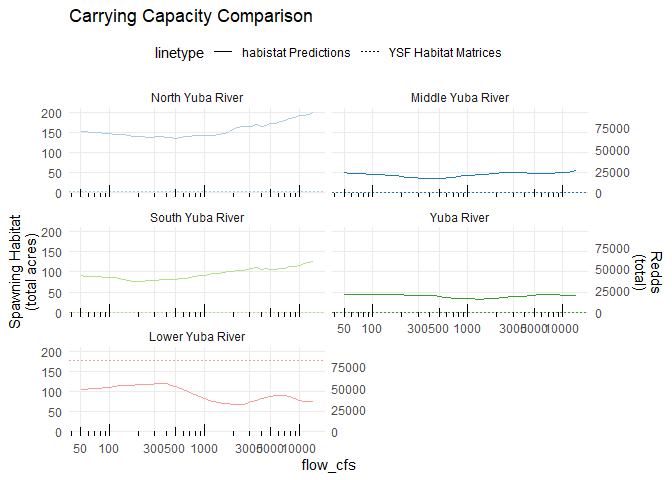
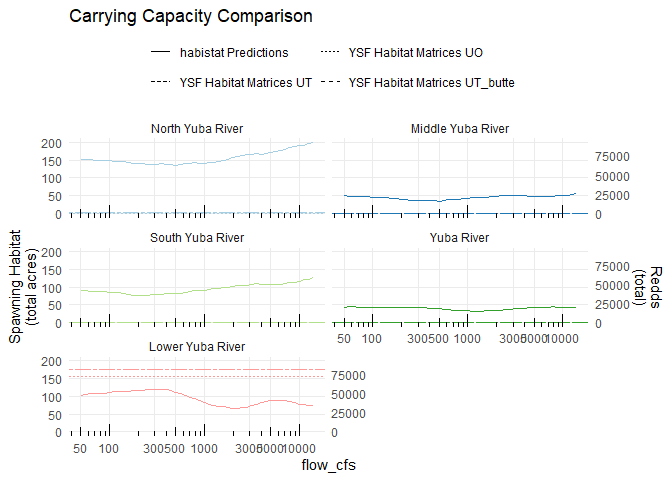
add UO vs UT breakdown

diff --git a/data-raw/scripts/spawning-gravel-carrying-capacity.md b/data-raw/scripts/spawning-gravel-carrying-capacity.md
@@ -116,27 +116,40 @@ spawning_matrix_data <- read_csv(here::here("data-raw", "source", "spawning_data
 Summarize
 
 ``` r
-spawning_matrix_summary <- 
+spawning_matrix_summary <-
   spawning_matrix_data |>
   group_by(river_name, year) |>
   summarize(across(c(starts_with("length_"), starts_with("gravel_"), starts_with("redds_")), function(x) sum(x, na.rm=T)), .groups="drop") |>
-  select(river_name, year, ends_with("_UT")) |>
   group_by(river_name) |>
   summarize(across(c(starts_with("length_"), starts_with("gravel_"), starts_with("redds_")), mean)) |>
-  transmute(river_name = river_name |>
-            factor(levels = c("North Yuba River", "Middle Yuba River", "South Yuba River", "Yuba River", "Lower Yuba River")),
-            actual_length_mi = length_UT, # units are miles
-            actual_gravel_ac = gravel_UT * 1000 / 43560) # convert 1000 ft2 to ft2 to acres) |>
+  pivot_longer(cols = -river_name) |>
+  separate(name, sep = "_", into = c("name", "method"), extra = "merge") |>
+  pivot_wider() |>
+  transmute(river_name = river_name |> factor(levels = c("North Yuba River", "Middle Yuba River", "South Yuba River", "Yuba River", "Lower Yuba River")),
+            method,
+            actual_length_mi = length, # units are miles
+            actual_gravel_ac = gravel * 1000 / 43560)
+
 spawning_matrix_summary |> knitr::kable()
 ```
 
-| river_name        | actual_length_mi | actual_gravel_ac |
-|:------------------|-----------------:|-----------------:|
-| Lower Yuba River  |            24.00 |      175.7174013 |
-| Middle Yuba River |             9.20 |        0.5968779 |
-| North Yuba River  |            20.55 |        3.1393480 |
-| South Yuba River  |             0.75 |        0.0229568 |
-| Yuba River        |             1.70 |        0.1377410 |
+| river_name        | method   | actual_length_mi | actual_gravel_ac |
+|:------------------|:---------|-----------------:|-----------------:|
+| Lower Yuba River  | UO       |           18.125 |      154.4765840 |
+| Lower Yuba River  | UT       |           24.000 |      175.7174013 |
+| Lower Yuba River  | UT_butte |           24.000 |      175.7174013 |
+| Middle Yuba River | UO       |            4.325 |        0.1377410 |
+| Middle Yuba River | UT       |            9.200 |        0.5968779 |
+| Middle Yuba River | UT_butte |           10.700 |        0.7805326 |
+| North Yuba River  | UO       |            9.800 |        1.1880165 |
+| North Yuba River  | UT       |           20.550 |        3.1393480 |
+| North Yuba River  | UT_butte |           22.750 |        3.3057851 |
+| South Yuba River  | UO       |            0.000 |        0.0000000 |
+| South Yuba River  | UT       |            0.750 |        0.0229568 |
+| South Yuba River  | UT_butte |            0.875 |        0.0286961 |
+| Yuba River        | UO       |            1.700 |        0.1377410 |
+| Yuba River        | UT       |            1.700 |        0.1377410 |
+| Yuba River        | UT_butte |            1.700 |        0.1377410 |
 
 ## Predictions
 
@@ -308,32 +321,43 @@ spawning_matrix_summary |>
              by=join_by(river_name)) |>
   mutate(ratio_length = (predicted_length_mi / actual_length_mi) |> num(digits = 2),
          ratio_gravel = (predicted_spawning_ac / actual_gravel_ac) |> num(digits = 2)) |>
-  select(river_name, 
+  select(river_name, method, 
          actual_length_mi, predicted_length_mi, ratio_length,
          actual_gravel_ac, predicted_spawning_ac, ratio_gravel) |>
   knitr::kable()
 ```
 
-| river_name        | actual_length_mi | predicted_length_mi | ratio_length | actual_gravel_ac | predicted_spawning_ac | ratio_gravel |
-|:------------------|-----------------:|--------------------:|-------------:|-----------------:|----------------------:|-------------:|
-| Lower Yuba River  |            24.00 |           11.963589 |         0.50 |      175.7174013 |             119.07051 |         0.68 |
-| Middle Yuba River |             9.20 |           12.747955 |         1.39 |        0.5968779 |              56.72524 |        95.04 |
-| North Yuba River  |            20.55 |           33.615653 |         1.64 |        3.1393480 |             199.62539 |        63.59 |
-| South Yuba River  |             0.75 |           23.623749 |        31.50 |        0.0229568 |             126.50171 |      5510.41 |
-| Yuba River        |             1.70 |            6.917089 |         4.07 |        0.1377410 |              44.66620 |       324.28 |
+| river_name        | method   | actual_length_mi | predicted_length_mi | ratio_length | actual_gravel_ac | predicted_spawning_ac | ratio_gravel |
+|:------------------|:---------|-----------------:|--------------------:|-------------:|-----------------:|----------------------:|-------------:|
+| Lower Yuba River  | UO       |           18.125 |           11.963589 |         0.66 |      154.4765840 |             119.07051 |         0.77 |
+| Lower Yuba River  | UT       |           24.000 |           11.963589 |         0.50 |      175.7174013 |             119.07051 |         0.68 |
+| Lower Yuba River  | UT_butte |           24.000 |           11.963589 |         0.50 |      175.7174013 |             119.07051 |         0.68 |
+| Middle Yuba River | UO       |            4.325 |           12.747955 |         2.95 |        0.1377410 |              56.72524 |       411.83 |
+| Middle Yuba River | UT       |            9.200 |           12.747955 |         1.39 |        0.5968779 |              56.72524 |        95.04 |
+| Middle Yuba River | UT_butte |           10.700 |           12.747955 |         1.19 |        0.7805326 |              56.72524 |        72.68 |
+| North Yuba River  | UO       |            9.800 |           33.615653 |         3.43 |        1.1880165 |             199.62539 |       168.03 |
+| North Yuba River  | UT       |           20.550 |           33.615653 |         1.64 |        3.1393480 |             199.62539 |        63.59 |
+| North Yuba River  | UT_butte |           22.750 |           33.615653 |         1.48 |        3.3057851 |             199.62539 |        60.39 |
+| South Yuba River  | UO       |            0.000 |           23.623749 |          Inf |        0.0000000 |             126.50171 |          Inf |
+| South Yuba River  | UT       |            0.750 |           23.623749 |        31.50 |        0.0229568 |             126.50171 |      5510.41 |
+| South Yuba River  | UT_butte |            0.875 |           23.623749 |        27.00 |        0.0286961 |             126.50171 |      4408.33 |
+| Yuba River        | UO       |            1.700 |            6.917089 |         4.07 |        0.1377410 |              44.66620 |       324.28 |
+| Yuba River        | UT       |            1.700 |            6.917089 |         4.07 |        0.1377410 |              44.66620 |       324.28 |
+| Yuba River        | UT_butte |            1.700 |            6.917089 |         4.07 |        0.1377410 |              44.66620 |       324.28 |
 
 ``` r
 spawning_predictions |>
   ggplot() + 
   geom_line(aes(x = flow_cfs, y = (total_wua_ft2 / 43560), color = river_name, linetype = "habistat Predictions")) + 
   #geom_line(aes(x = flow_cfs, y = (total_wua_ft2 / 43560) - actual_gravel_ac, color = river_name)) + 
-  geom_hline(data = spawning_matrix_summary, aes(yintercept = actual_gravel_ac, color = river_name, linetype = "YSF Habitat Matrices")) +
+  geom_hline(data = spawning_matrix_summary, aes(yintercept = actual_gravel_ac, color = river_name, linetype = paste("YSF Habitat Matrices", method))) +
   scale_x_log10(breaks = scales::breaks_log(10)) + annotation_logticks(sides="b") +
   ylab("Spawning Habitat\n(total acres)") + guides(color = "none", fill = "none") + 
   scale_y_continuous(sec.axis = sec_axis(name = "Redds\n(total)", transform = ~./94*43560)) + 
   scale_color_brewer(name = "Spawning/Reach", aesthetics = c("color", "fill"), palette="Paired") +
   facet_wrap(~river_name, ncol=2)  + theme(legend.position = "top", panel.grid.minor = element_blank()) +
-  ggtitle("Carrying Capacity Comparison")
+  ggtitle("Carrying Capacity Comparison") + 
+  guides(linetype = guide_legend(nrow=2, byrow=TRUE, title = ""))
 ```
 
 ![](spawning-gravel-carrying-capacity_files/figure-gfm/unnamed-chunk-10-1.png)<!-- -->
